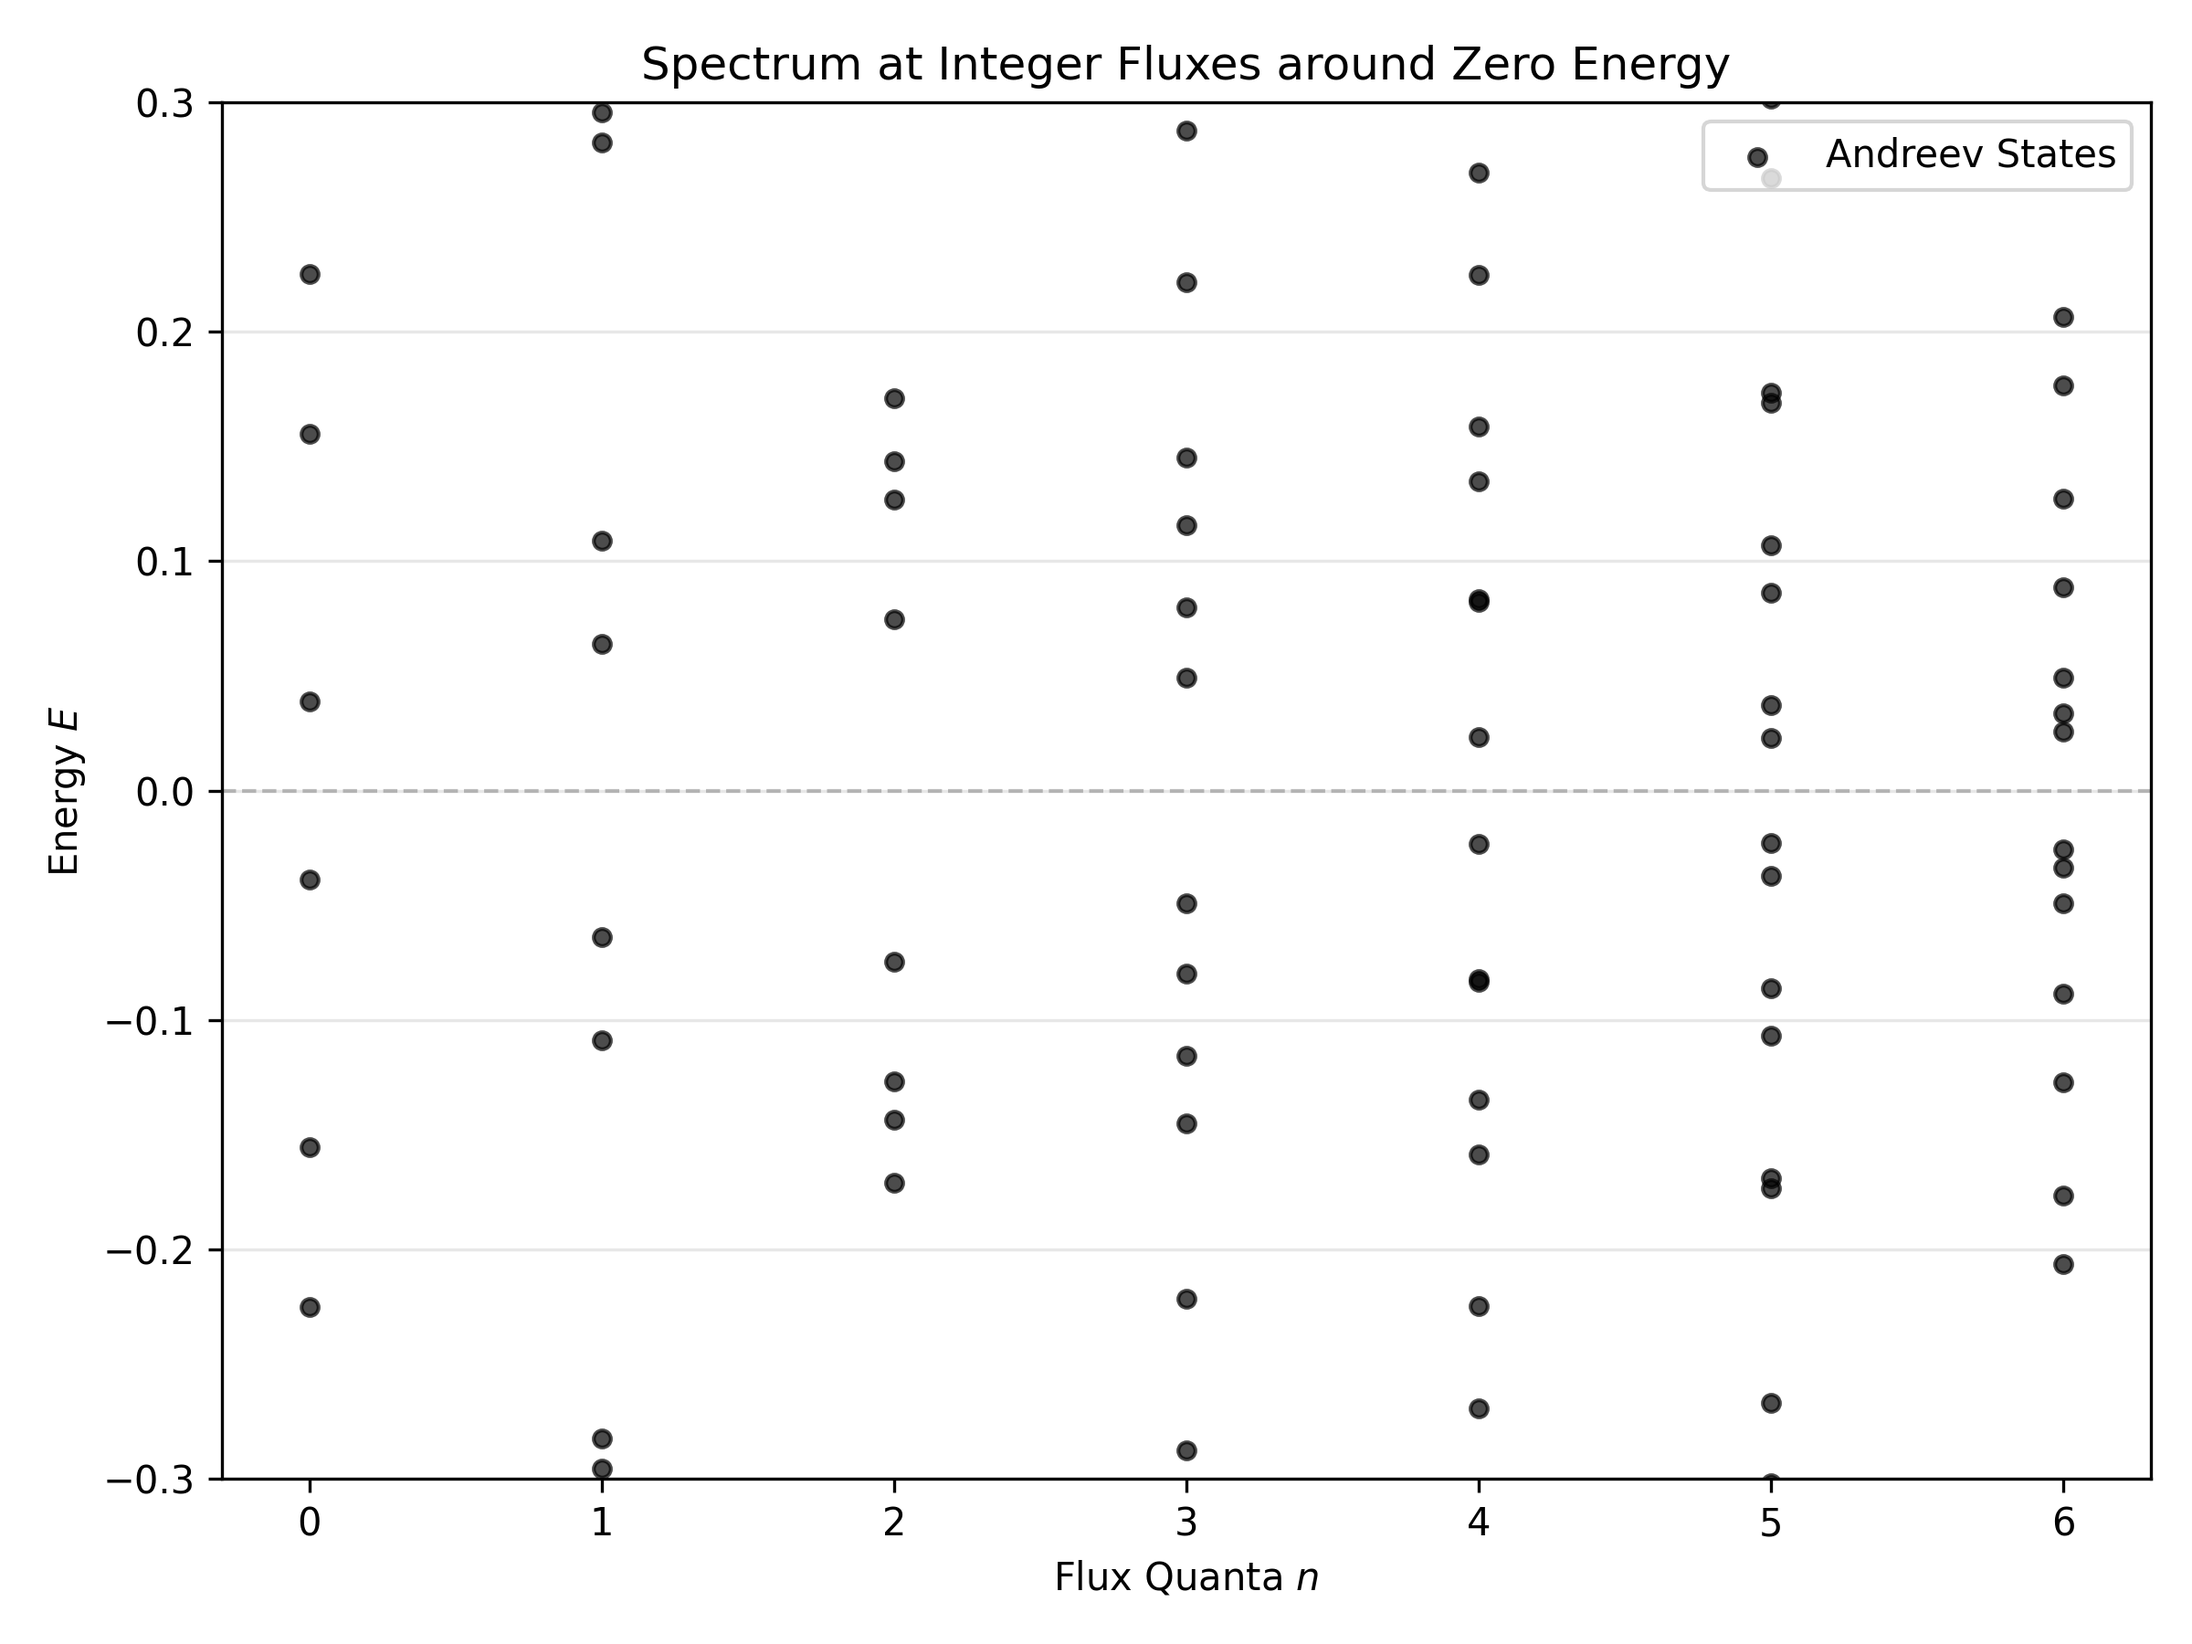
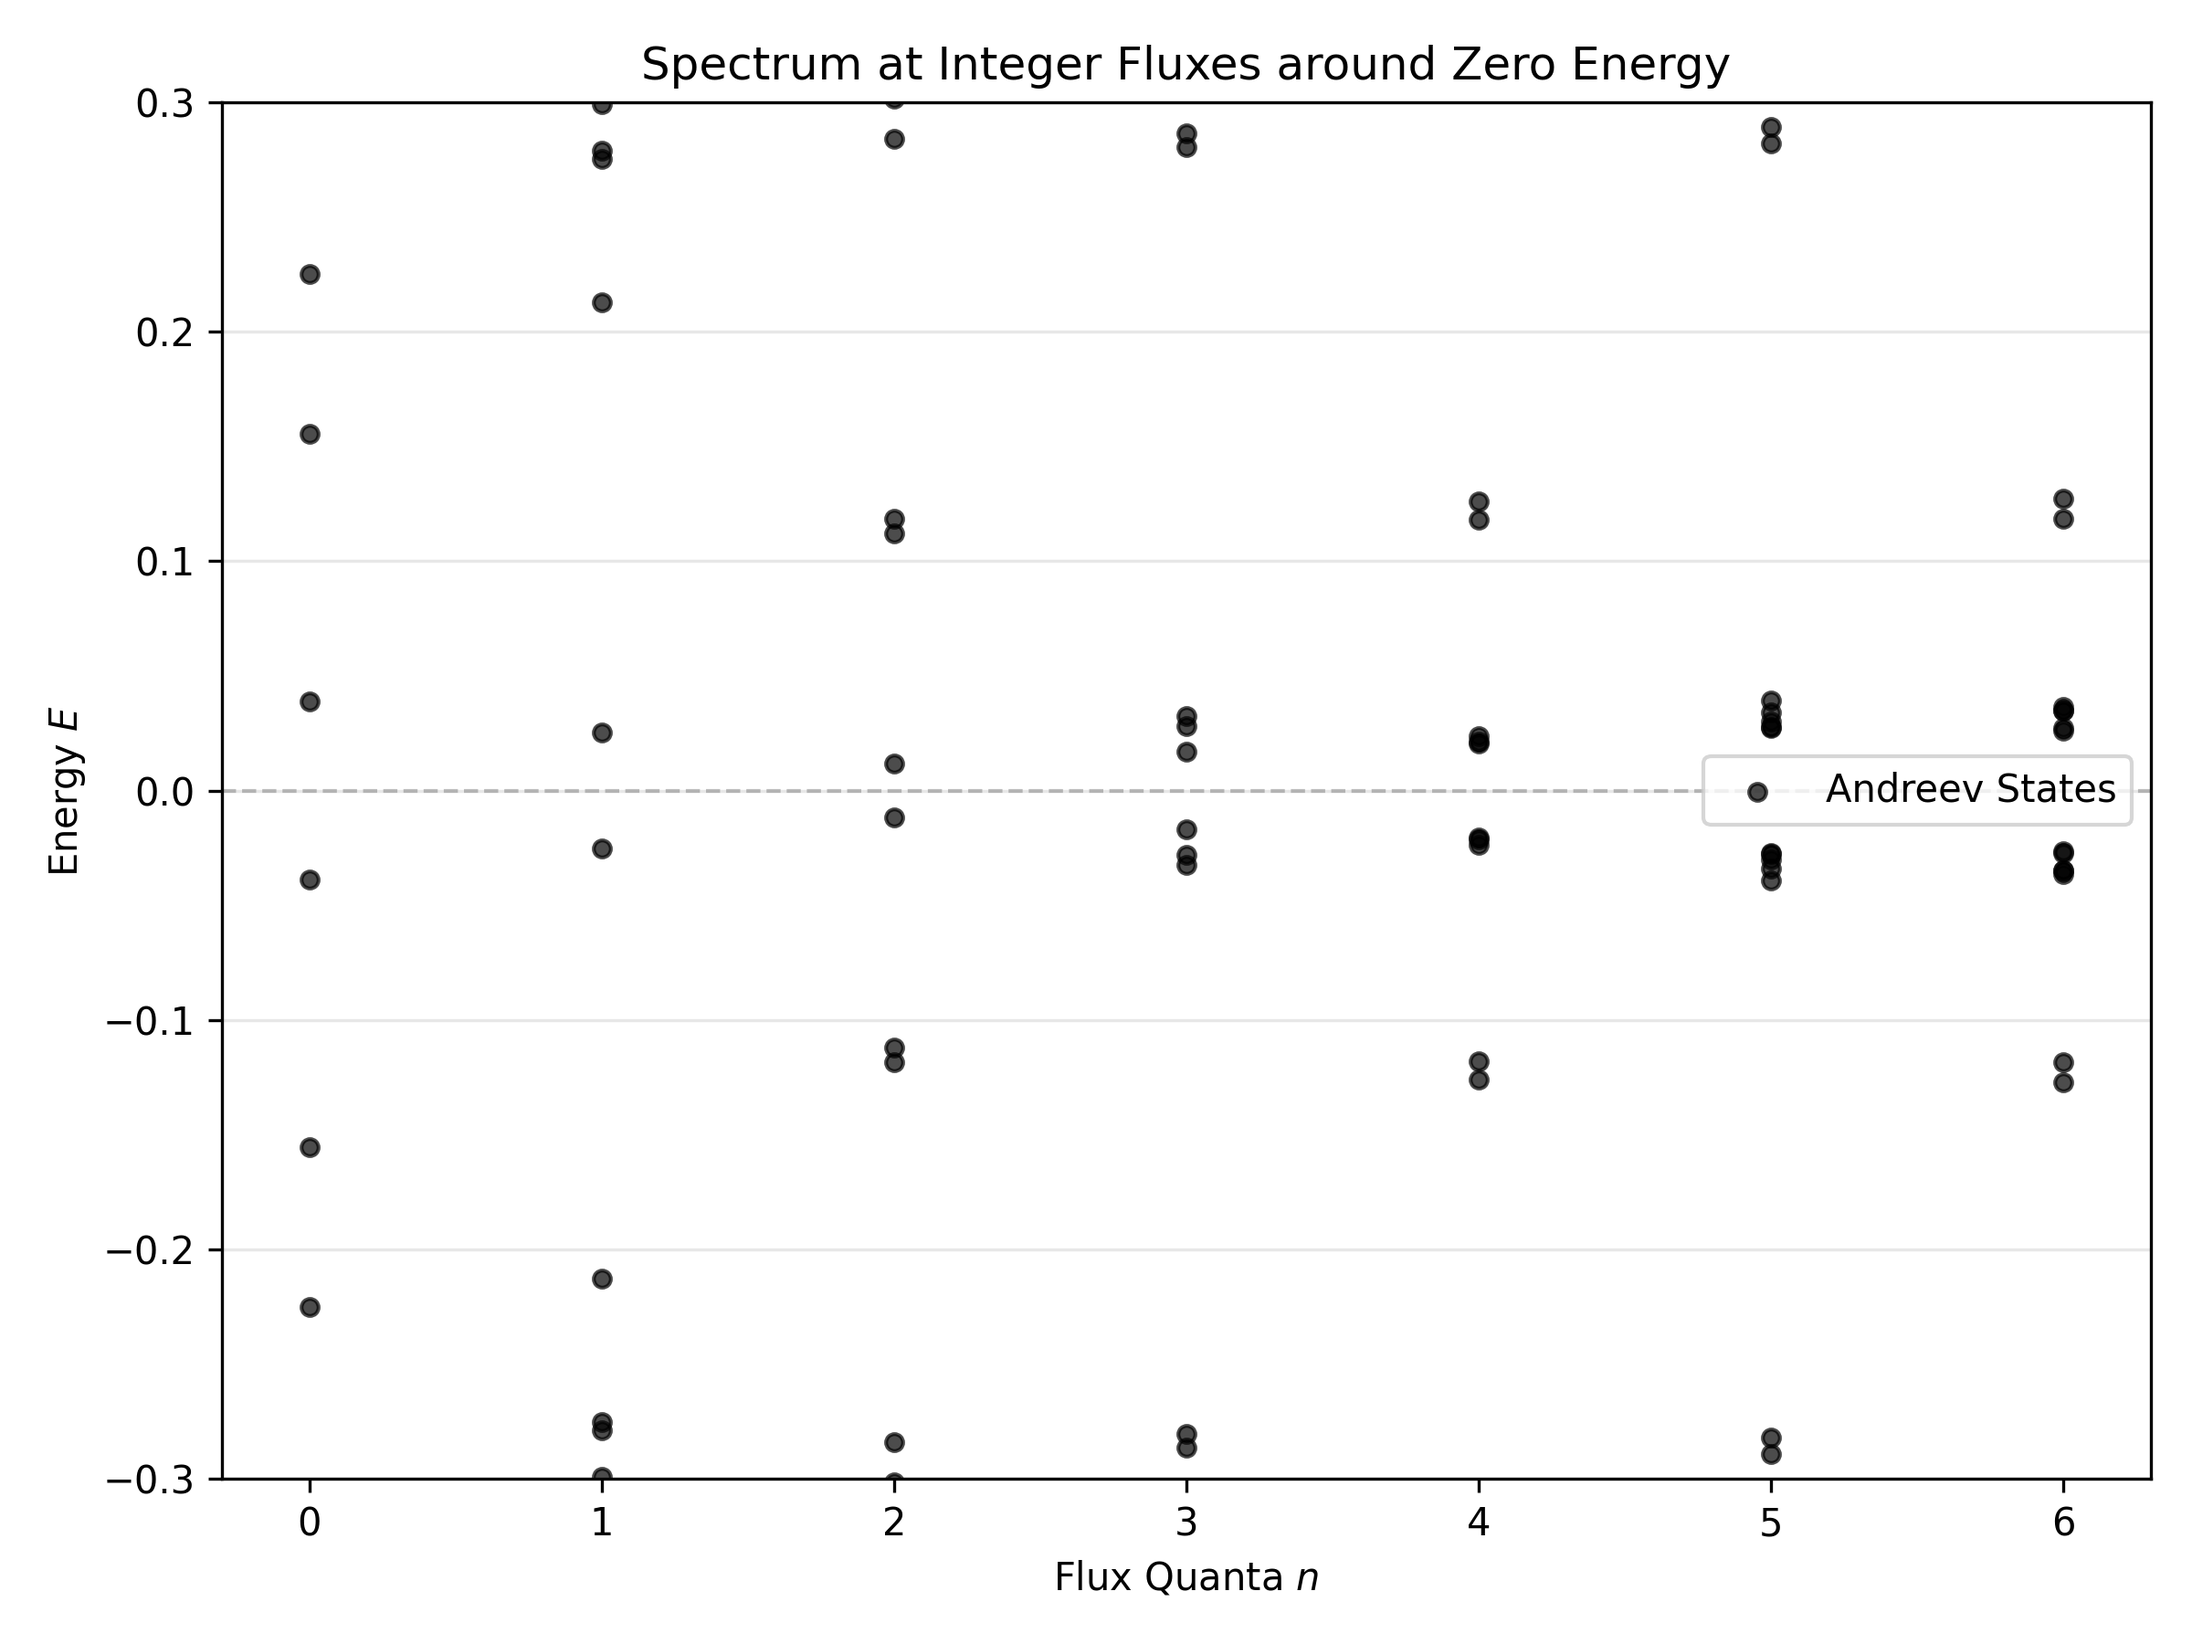
vortices working well for even n, and i see the correct number of them . odd n doesn't work

diff --git a/latticesimulation/main.py b/latticesimulation/main.py
@@ -3,8 +3,18 @@ import matplotlib.pyplot as plt
 import scipy.sparse as sparse
 from pathlib import Path
 import scipy.sparse.linalg as sla
-from lattice_simulation import  LatticeSimulation
+from latticesimulation.lattice_simulation import LatticeSimulation
 
+PLOTS_DIR = Path(__file__).resolve().parent.parent / "plots"
+VORTICES_Y_GAUGE_DIR = PLOTS_DIR / "vortices" / "y_gauge"
+
+
+def _show_or_close():
+    # Avoid UserWarning on non-interactive backends (e.g., FigureCanvasAgg).
+    if "agg" in str(plt.get_backend()).lower():
+        plt.close()
+    else:
+        plt.show()
 
 
 def run_simulation():
@@ -63,11 +73,10 @@ def run_simulation():
     ax_obc.plot(energies, real_dos, color='black', label='Theoretical DOS')
     ax_obc.legend()
     ax_obc.grid(True, alpha=0.3)
-    out_dir = Path(__file__).resolve().parent / "plots"
-    out_dir.mkdir(parents=True, exist_ok=True)
+    PLOTS_DIR.mkdir(parents=True, exist_ok=True)
     fig.tight_layout()
-    plt.savefig(out_dir / f"dirac_real_vs_numerical.jpg", dpi=300)
-    plt.show()
+    plt.savefig(PLOTS_DIR / "dirac_real_vs_numerical.jpg", dpi=300)
+    _show_or_close()
 
 def run_bcs_simulation(Lx,Ly,t_hop,mass,mu,Delta0,bc):
     '''
@@ -88,8 +97,9 @@ def run_bcs_simulation(Lx,Ly,t_hop,mass,mu,Delta0,bc):
     ax_pbc.set_ylabel("DOS (Count)", fontsize=12)
     ax_pbc.set_xlabel("Energy (E)", fontsize=12)
     ax_pbc.grid(True, alpha=0.3)
-    plt.savefig("bdg_pbc.jpg", dpi=300)
-    plt.show()
+    PLOTS_DIR.mkdir(parents=True, exist_ok=True)
+    plt.savefig(PLOTS_DIR / "bdg_pbc.jpg", dpi=300)
+    _show_or_close()
     print(f"  Completed BCS simulation for {bc.upper()}.")
     return energies_bdg
 
@@ -178,10 +188,9 @@ def run_josephson_current_operator(Lx, Ly, t_hop,alpha, mass, mu, Delta0, L1, L2
     plt.ylabel(r"Current $I(\varphi)$ (arb. units)")
     plt.title(rf"Josephson Current VS Phase Difference, $\alpha$={alpha}")
     # Save to project's plots/ directory with a safe filename (avoid $ and LaTeX in filenames)
-    out_dir = Path(__file__).resolve().parent / "plots"
-    out_dir.mkdir(parents=True, exist_ok=True)
+    PLOTS_DIR.mkdir(parents=True, exist_ok=True)
     safe_name = f"josephson_current_in_2_ways_alpha_{alpha}.jpg"
-    save_path = out_dir / safe_name
+    save_path = PLOTS_DIR / safe_name
     plt.savefig(save_path, dpi=300)
     plt.tight_layout()
     print(f"Saved Josephson current plot to: {save_path}")
@@ -202,9 +211,9 @@ def josephson_current_vs_vortice_number(Lx, Ly, t_hop, mass, mu, Delta0, L1, L2,
     plt.xlabel(r"Flux normalization $n$")
     plt.ylabel(r"Max. Josephson Current $I_max$")
     plt.title(rf"Josephson Current VS Flux Normalization")
-    output_path=Path("/plots/vortices/y_gauge")
-    plt.savefig(output_path/"josephson_current_vs_flux_normalization.jpg", dpi=300)
-    plt.show()
+    VORTICES_Y_GAUGE_DIR.mkdir(parents=True, exist_ok=True)
+    plt.savefig(VORTICES_Y_GAUGE_DIR / "josephson_current_vs_flux_normalization.jpg", dpi=300)
+    _show_or_close()
 
 
 
@@ -281,8 +290,9 @@ def plot_bcs_dispersion(t=1.0, m=1.0, mu=0.3, Delta0=0.2,
     plt.title(f"BdG dispersion (ky={ky:.2f}) | t={t}, m={m}, μ={mu}, Δ={Delta0}")
     plt.tight_layout()
     plt.legend()
-    plt.savefig(f"bdg_dispersion_ky{ky:.2f}.jpg", dpi=300)
-    plt.show()
+    PLOTS_DIR.mkdir(parents=True, exist_ok=True)
+    plt.savefig(PLOTS_DIR / f"bdg_dispersion_ky{ky:.2f}.jpg", dpi=300)
+    _show_or_close()
 
 
 import matplotlib.pyplot as plt
@@ -369,8 +379,9 @@ def plot_lowest_positive_bdg_state():
         plt.colorbar(im, ax=ax, fraction=0.046, pad=0.04)
 
     plt.suptitle("Lowest Positive Energy State Density for Different Fluxes")
-    plt.savefig("all_rho_maps_1to6.png", dpi=300)
-    plt.show()
+    PLOTS_DIR.mkdir(parents=True, exist_ok=True)
+    plt.savefig(PLOTS_DIR / "all_rho_maps_1to6.png", dpi=300)
+    _show_or_close()
 
     return results
 
@@ -437,8 +448,9 @@ def plot_lowest_positive_bdg_phase():
         plt.colorbar(im, ax=ax, fraction=0.046, pad=0.04, label="Phase (rad)")
 
     plt.suptitle(r"Phase for Different Fluxes")
-    plt.savefig("all_phase_maps_1to6.png", dpi=300)
-    plt.show()
+    PLOTS_DIR.mkdir(parents=True, exist_ok=True)
+    plt.savefig(PLOTS_DIR / "all_phase_maps_1to6.png", dpi=300)
+    _show_or_close()
 
     return results
 
@@ -514,7 +526,8 @@ def plot_spectrum_at_integers_only():
 
     plt.figure(fig1.number)
     plt.tight_layout()
-    plt.savefig("fig1_discrete_spectrum.png", dpi=300)
+    PLOTS_DIR.mkdir(parents=True, exist_ok=True)
+    plt.savefig(PLOTS_DIR / "fig1_discrete_spectrum.png", dpi=300)
 
     # --- FIGURE 2: Minigap at Integers ---
     fig2, ax2 = plt.subplots(figsize=(8, 4))
@@ -539,8 +552,9 @@ def plot_spectrum_at_integers_only():
 
     plt.figure(fig2.number)
     plt.tight_layout()
-    plt.savefig("fig2_discrete_minigap.png", dpi=300)
-    plt.show()
+    PLOTS_DIR.mkdir(parents=True, exist_ok=True)
+    plt.savefig(PLOTS_DIR / "fig2_discrete_minigap.png", dpi=300)
+    _show_or_close()
 
 
 # Run it
@@ -550,13 +564,16 @@ def plot_current_streamlines_gauge_invariant(n=4):
     print(f"--- Running Simulation for n={n} ---")
     # 1. Setup Simulation
     eps = 1e-10
-    sim = LatticeSimulation(30, 30, boundary_condition_x='obc', boundary_condition_y='pbc')
+    sim = LatticeSimulation(30, 30, boundary_condition_x='obc', boundary_condition_y='obc')
     L1, L2 = 10,20
-   # W = L2 - L1+1  # Matches Hamiltonian logic
-    alpha = n / ((L2-L1)* sim.Ly)
+    W = L2 - L1
+    # With current BdG phase profile phi_y = phi_0 + 4π * alpha * W * y,
+    # using 1/(2*W*Ly) makes total winding over y equal 2π*n (not 4π*n).
+    alpha = n / ( 2*W * sim.Ly)
     # 2. Build BdG Hamiltonian
+    m_model = 0.3  # Choose a mass that gives a clear gap but still allows vortex modes (not too large)ע
     H_bdg = sim.get_bdg_josephson_hamiltonian(
-        t=1, m=0.4, mu=0.1, Delta0=0.1,
+        t=1, m=m_model, mu=0.1, Delta0=0.1,
         phi_0=np.pi/4, alpha=alpha, L1=L1, L2=L2
     )
     # This call will now use the FIXED get_spectrum from the class above
@@ -572,10 +589,15 @@ def plot_current_streamlines_gauge_invariant(n=4):
 
     for idx in sorted_pos_indices:
         psi = evecs[:, idx]
-        psi_flat = np.asarray(psi).flatten()  # Force 1D
-
-        # Calculate Density
-        density_on_site = np.sum(np.abs(psi_flat.reshape(sim.N, -1)) ** 2, axis=1)
+        psi_flat = np.asarray(psi).ravel()
+        dim_e = 2 * sim.N
+        u = psi_flat[:dim_e]
+        v = psi_flat[dim_e:]
+        # BdG basis is [u(2N), v(2N)], so build site density explicitly.
+        density_on_site = (
+            np.square(np.abs(u[0::2])) + np.square(np.abs(u[1::2])) +
+            np.square(np.abs(v[0::2])) + np.square(np.abs(v[1::2]))
+        ).real
 
         # Junction Mask
         x_coords = np.arange(sim.N) % sim.Lx
@@ -601,7 +623,7 @@ def plot_current_streamlines_gauge_invariant(n=4):
     dim_e = 2 * sim.N
     u = psi[:dim_e]
 
-    H0 = sim.get_dirac_hamiltonian(t=1, m=0.3, alpha=alpha, L1=L1, L2=L2).tocsr()
+    H0 = sim.get_dirac_hamiltonian(t=1, m=m_model, alpha=alpha, L1=L1, L2=L2).tocsr()
 
     Jx_bond = np.zeros((sim.Ly, sim.Lx - 1), dtype=float)
     Jy_bond = np.zeros((sim.Ly - 1, sim.Lx), dtype=float)
@@ -656,18 +678,19 @@ def plot_current_streamlines_gauge_invariant(n=4):
     xgrid = np.arange(sim.Lx)
     ygrid = np.arange(sim.Ly)
 
-    output_dir = Path("plots/vortices/y_gauge")
-    output_dir.mkdir(parents=True, exist_ok=True)
+    VORTICES_Y_GAUGE_DIR.mkdir(parents=True, exist_ok=True)
 
     plt.figure(figsize=(10, 6))
     st = plt.streamplot(xgrid, ygrid, Jx, Jy, color=Jmag, density=2.0, arrowsize=1.5, cmap='viridis')
     plt.colorbar(st.lines, label="|J|")
-    plt.title(f"Gauge-invariant Streamlines n={n}\nE={evals[selected_idx]:.5e}")
+    plt.title(f"Gauge-invariant Streamlines n={n}, alpha={alpha:.6e}\nE={evals[selected_idx]:.5e}")
     plt.xlabel("x");
     plt.ylabel("y")
 
-    plt.savefig(output_dir / f"gauge_invariant_streamlines_n{n}.png", dpi=300)
-    plt.show()
+
+    plt.savefig(VORTICES_Y_GAUGE_DIR / f"gauge_invariant_streamlines_n{n}.png", dpi=300)
+    _show_or_close()
+    print(f"  Completed Streamline simulation for n={n},saved to {VORTICES_Y_GAUGE_DIR / f'gauge_invariant_streamlines_n{n}.png'}")
 
 
 # Run it
@@ -713,10 +736,9 @@ def plot_10_lowest_energy_eigenstates(Lx=30, Ly=30, n=4, t=1.0, m=0.3, mu=0.2, D
             axs[i].set_title(f"{i + 1}: E={E:.3e}", fontsize=10)
             plt.colorbar(im, ax=axs[i], fraction=0.046, pad=0.04)
 
-        out_path = Path("plots/vortices/y_gauge")
-        out_path.mkdir(parents=True, exist_ok=True)
-        plt.savefig(out_path / f"10_lowest_eigenstates_n{n}.png", dpi=300, bbox_inches="tight")
-        plt.show()
+        VORTICES_Y_GAUGE_DIR.mkdir(parents=True, exist_ok=True)
+        plt.savefig(VORTICES_Y_GAUGE_DIR / f"10_lowest_eigenstates_n{n}.png", dpi=300, bbox_inches="tight")
+        _show_or_close()
         return results
 
 
@@ -758,7 +780,7 @@ def plot_top_states_by_R(
     Emin=0.0, Emax=0.15,   # energy window on positive energies
     use_u_plus_v=True,
     exclude_interfaces=True,
-    out_dir="plots/vortices/y_gauge"
+    out_dir=VORTICES_Y_GAUGE_DIR
 ):
     """
     Diagonalize BdG, compute R for each +E eigenstate, sort by R, and plot top K densities.
@@ -846,25 +868,25 @@ def plot_top_states_by_R(
     outp.mkdir(parents=True, exist_ok=True)
     fname = f"top_by_R_n{n}_Ewin_{Emin:.3f}_{Emax:.3f}_K{K}.png"
     plt.savefig(outp / fname, dpi=300, bbox_inches="tight")
-    plt.show()
+    _show_or_close()
 
     return top
 
 
-#top = plot_top_states_by_R(Lx=30, Ly=30, n=5, K=10, Emin=0.0, Emax=0.12)
+if __name__ == "__main__":
+    #top = plot_top_states_by_R(Lx=30, Ly=30, n=5, K=10, Emin=0.0, Emax=0.12)
 
-#results = plot_lowest_positive_bdg_state()
-#plot_lowest_positive_bdg_phase()
+    #results = plot_lowest_positive_bdg_state()
+    #plot_lowest_positive_bdg_phase()
 
-plot_spectrum_at_integers_only()
+    #plot_spectrum_at_integers_only()
 
+    # = plot_10_lowest_energy_eigenstates(Lx=30, Ly=30, n=5)
 
-# = plot_10_lowest_energy_eigenstates(Lx=30, Ly=30, n=5)
-
-#plot_bcs_dispersion()
-#run_bcs_simulation(40,40,1.0,2,1,1,'pbc')
-#run_simulation()
-#run_josephson_simulation(30,30,1.0,2,0.3,0.2,10,20,'pbc')
-#run_josephson_current_operator(30,30,1.0,1/(30*10),0.4,0.1,0.1,10,20)
-#josephson_current_vs_vortice_number(30,30,1.0,0.3,0.2,0.2,10,20)
-plot_current_streamlines_gauge_invariant(n=1)
+    #plot_bcs_dispersion()
+    #run_bcs_simulation(40,40,1.0,2,1,1,'pbc')
+    #run_simulation()
+    #run_josephson_simulation(30,30,1.0,2,0.3,0.2,10,20,'pbc')
+    #run_josephson_current_operator(30,30,1.0,1/(30*10),0.4,0.1,0.1,10,20)
+    #josephson_current_vs_vortice_number(30,30,1.0,0.3,0.2,0.2,10,20)
+    plot_current_streamlines_gauge_invariant(n=4)
